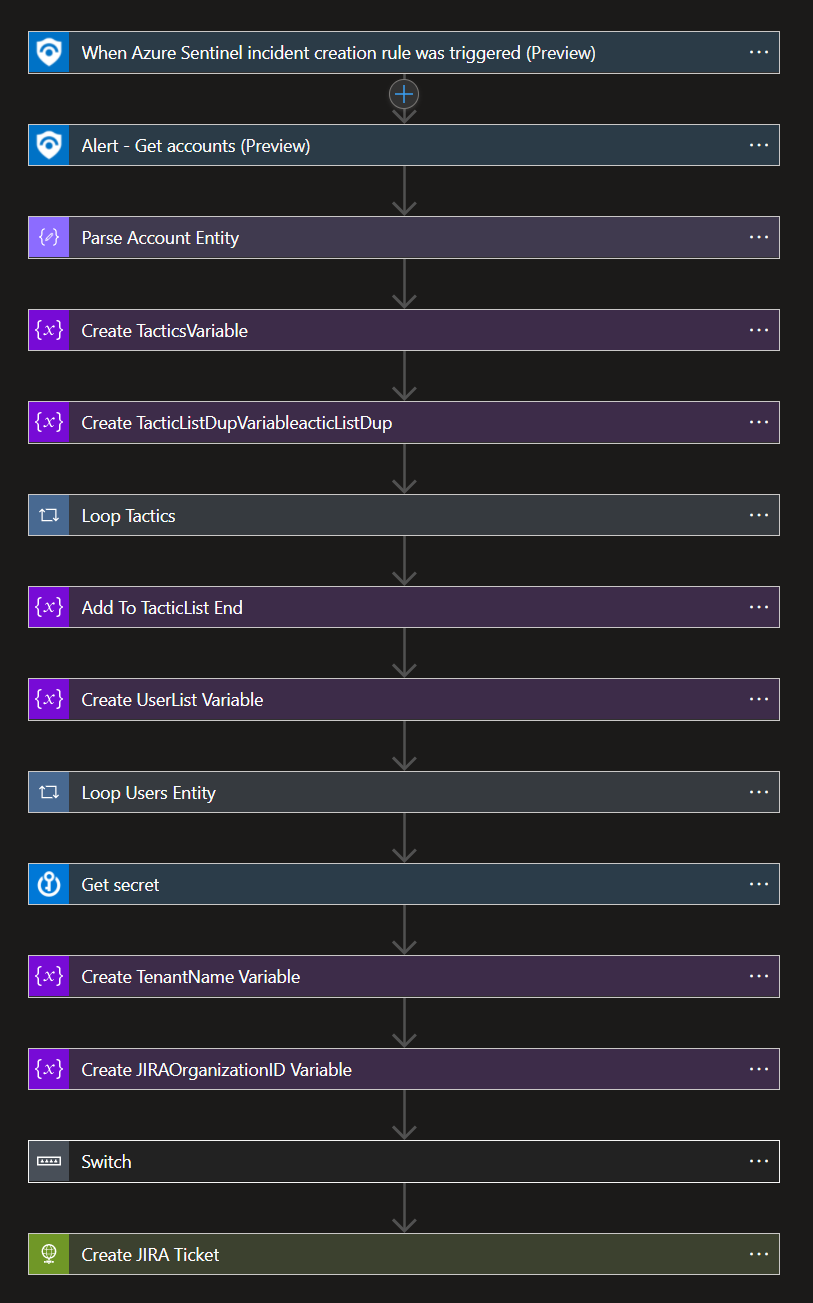
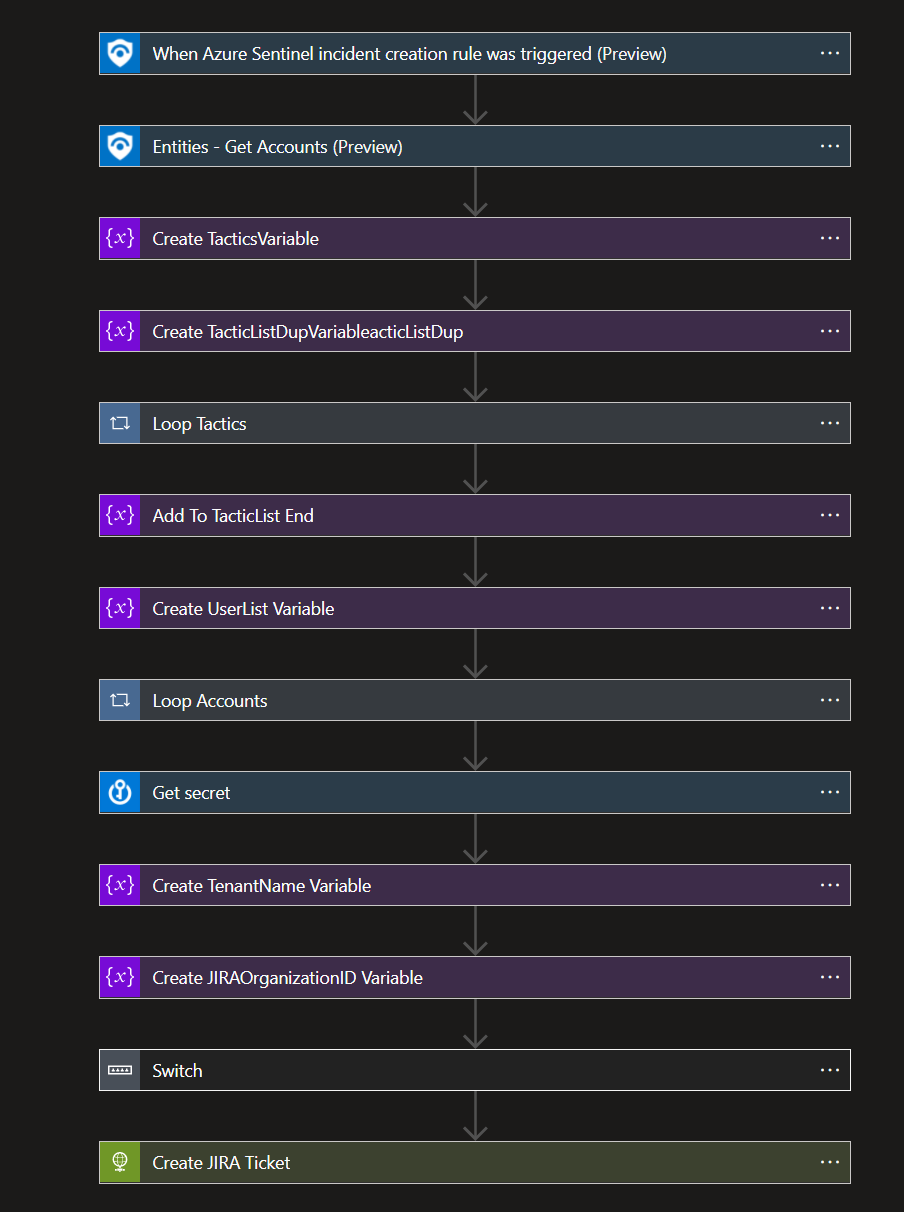
Update documentation & switch to new get-entities

diff --git a/Playbooks/Sync-IncidentsWithJIRA/readme.md b/Playbooks/Sync-IncidentsWithJIRA/readme.md
@@ -31,22 +31,9 @@ To implement this solution, a few different steps need to be done:
 5. Deploy Azure Function for comment sychronization and add the Powershell code (check the Functions)
 6. Create Sentinel Automation Rule
 
-## 1. Create Service Principals
-The tool requires a couple of service principals for authentication to different services:
-* Authentication to Azure Sentinel
-* Authentication to Key Vault to retrieve secrets
-* Authentication to AAD to retrieve user ID's (for assignin incidents in Sentinel)
-
-### Azure Sentinel Service Principal
-This Service Principal needs to have at least Azure Sentinel Operator permissions and it used in the following:
-* All Logic Apps
-* Comment Sync Function
-  
-### Key Vault ServicePrincipal
-This Service Principal needs to have the 'Secret - Get' Permission on the Key Vault holding all the secrets.
-This Service Principal is used in:
-* All Logic Apps
-* Comment Sync Function
+## 1. Create Service Principal
+The tool requires a service principals for authentication to different services:
+* Authentication to AAD to retrieve user ID's (for assigning incidents in Sentinel)
   
 ### AAD Service Principal
 This Service Principal needs to have User.Read.All application permissions.
@@ -159,8 +146,8 @@ This Logic App does the following:
 * Create JIRA ticket through an API call
 
 It uses two connections:
-* One connection to Sentinel through a Service Principal (to be configured when deploying the Logic App)
-* One connection to a Key Vault to retrieve the JIRA API Key (also configured when deploying the Logic App)
+* One connection to Sentinel through a Managed Identity
+* One connection to a Key Vault to retrieve the JIRA API Key (Managed Identity)
 
 In order to correlate the right add the incident in JIRA to the correct Organization, we use a switch and determine the correct organization based on the originate Subscription ID.
 Add a case per customer and add the right Subscription ID, Customer name and Organization ID.
@@ -177,7 +164,7 @@ It uses an HTTP trigger which is triggered from a JIRA Automation Rule.
 It's important you use the same closure reason in JIRA as the ones in Sentinel, otherwise the sync will fail.
 
 It uses one connections:
-* One connection to Sentinel through a Service Principal (to be configured when deploying the Logic App)
+* One connection to Sentinel through a Managed Identity.
 
 ### Sync assigned user from JIRA to Sentinel
 
@@ -190,7 +177,7 @@ It uses an HTTP trigger which is triggered from a JIRA Automation Rule when the 
 It will retrieve the client secret for the service principal with permissions to retrieve users in your Azure Active Directory. With this, it will query the user and retrieve the AAD Object ID from that user. Wit this information, we will update the incident in Azure Sentinel.
 
 There is a check built-in to make sure that JIRA provides the assigned user. Sometimes it does not and then we don't need to update the incident in Sentinel.
-* One connection to Sentinel through a Service Principal (to be configured when deploying the Logic App)
+* One connection to Sentinel through a Managed Identity
 * One connection to a Key Vault to retrieve the Secret for the Service Principal with AAD permissions (also configured when deploying the Logic App)
 
 ### Add a link to the JIRA incident to the Sentinel incident
@@ -203,7 +190,7 @@ It uses an HTTP trigger which is triggered from a JIRA Automation Rule.
 
 It will add the link to the JIRA Customer Portal, which enables a customer to view the details of an incident inside JIRA.
 It uses one connections:
-* One connection to Sentinel through a Service Principal (to be configured when deploying the Logic App)
+* One connection to Sentinel through a Managed Identity
 
 ## 5. Deploy Azure Function
 
@@ -213,11 +200,12 @@ It uses one connections:
 To sync incident comments from JIRA to Azure Sentinel an Azure Function is used. This Function App contains one Powershell Function.
 There are two types of comments in JIRA: internal and public comments. This script will only sync the public comments, so that customers don't have access to the internal ones.
 
-The code for this function can be found [in this repository](Functions/Sync-Comment.ps1).
+The code for this function can be found [in this repository](Sync-Comments/Sync-Comment.ps1).
 This Function uses a managed identity to authenticate to the Key Vault.
 
-Deploy a new Powershell Azure Function app and create one Function with an HTTP trigger.
-Paste the code from the PS1 file in the Function and change the following variables:
+Either deployment the Function App through the ARM template linked above or deploy a Function app manually and paste the ps1 code
+
+After deployment, configure the parameters in the Powershell file.
 * jiraUser => Used for authentication to JIRA
 * jiraSecretURL => The URL to the JIRA Secret in our Key Vault
 * sentinelSecretURL => The URL to the Sentinel Secret in our Key Vault
